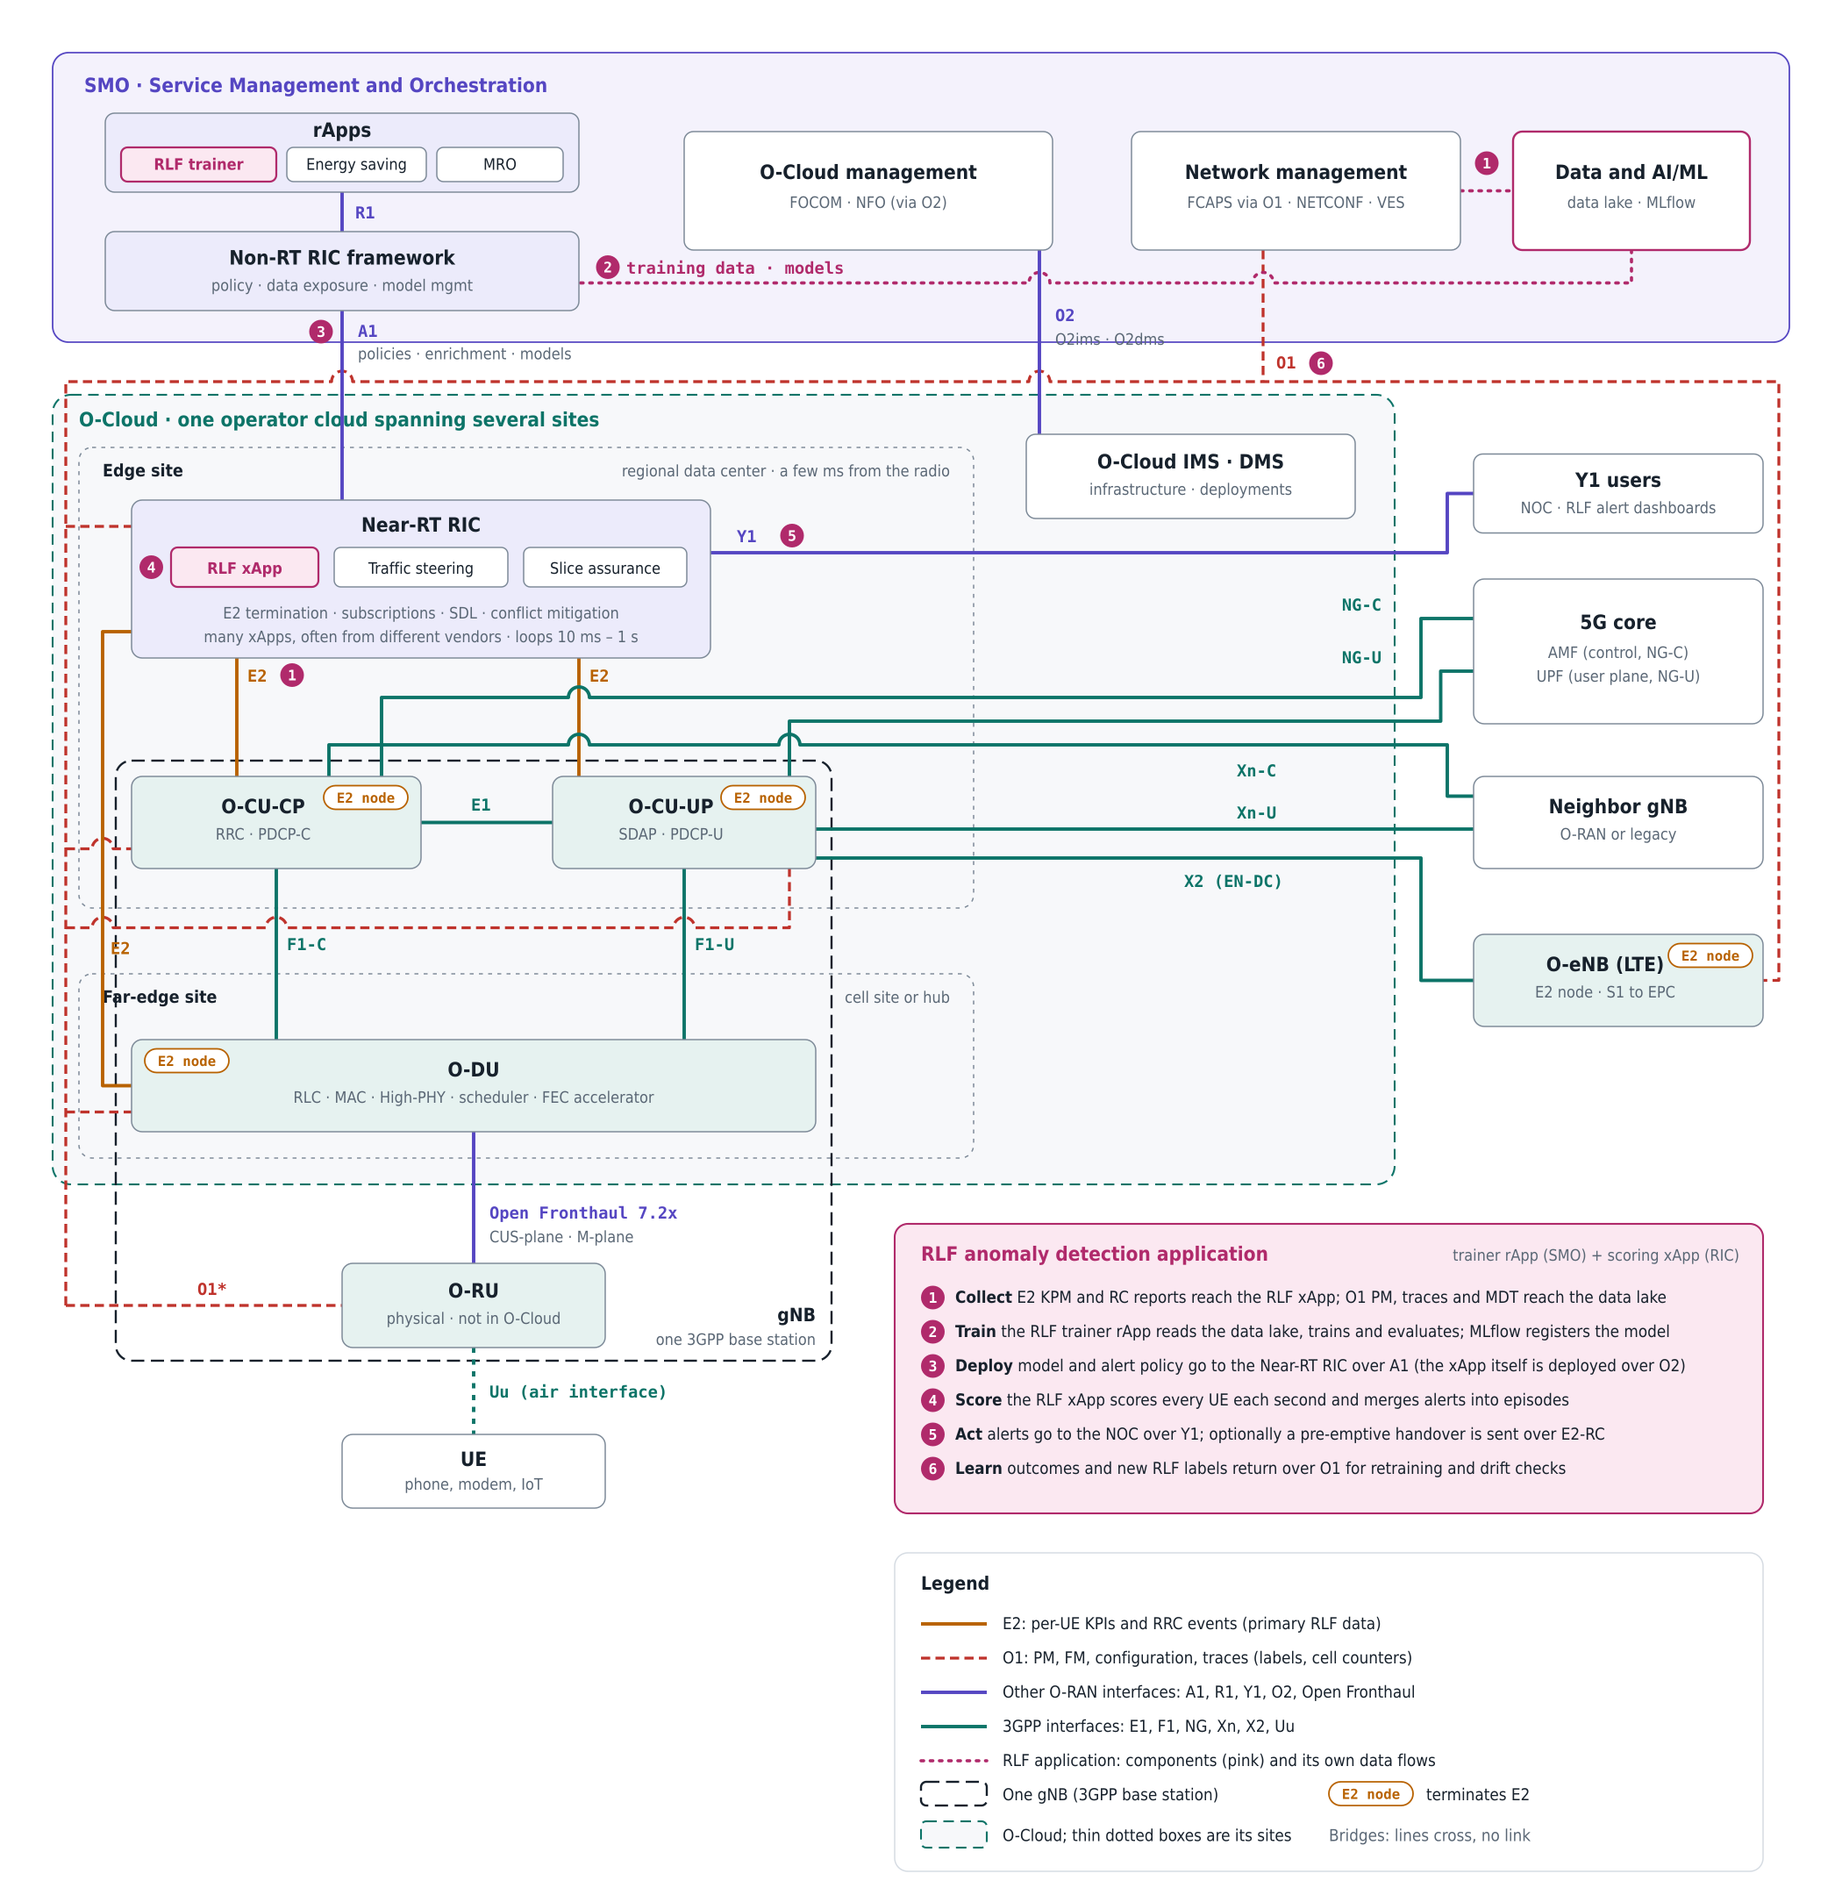
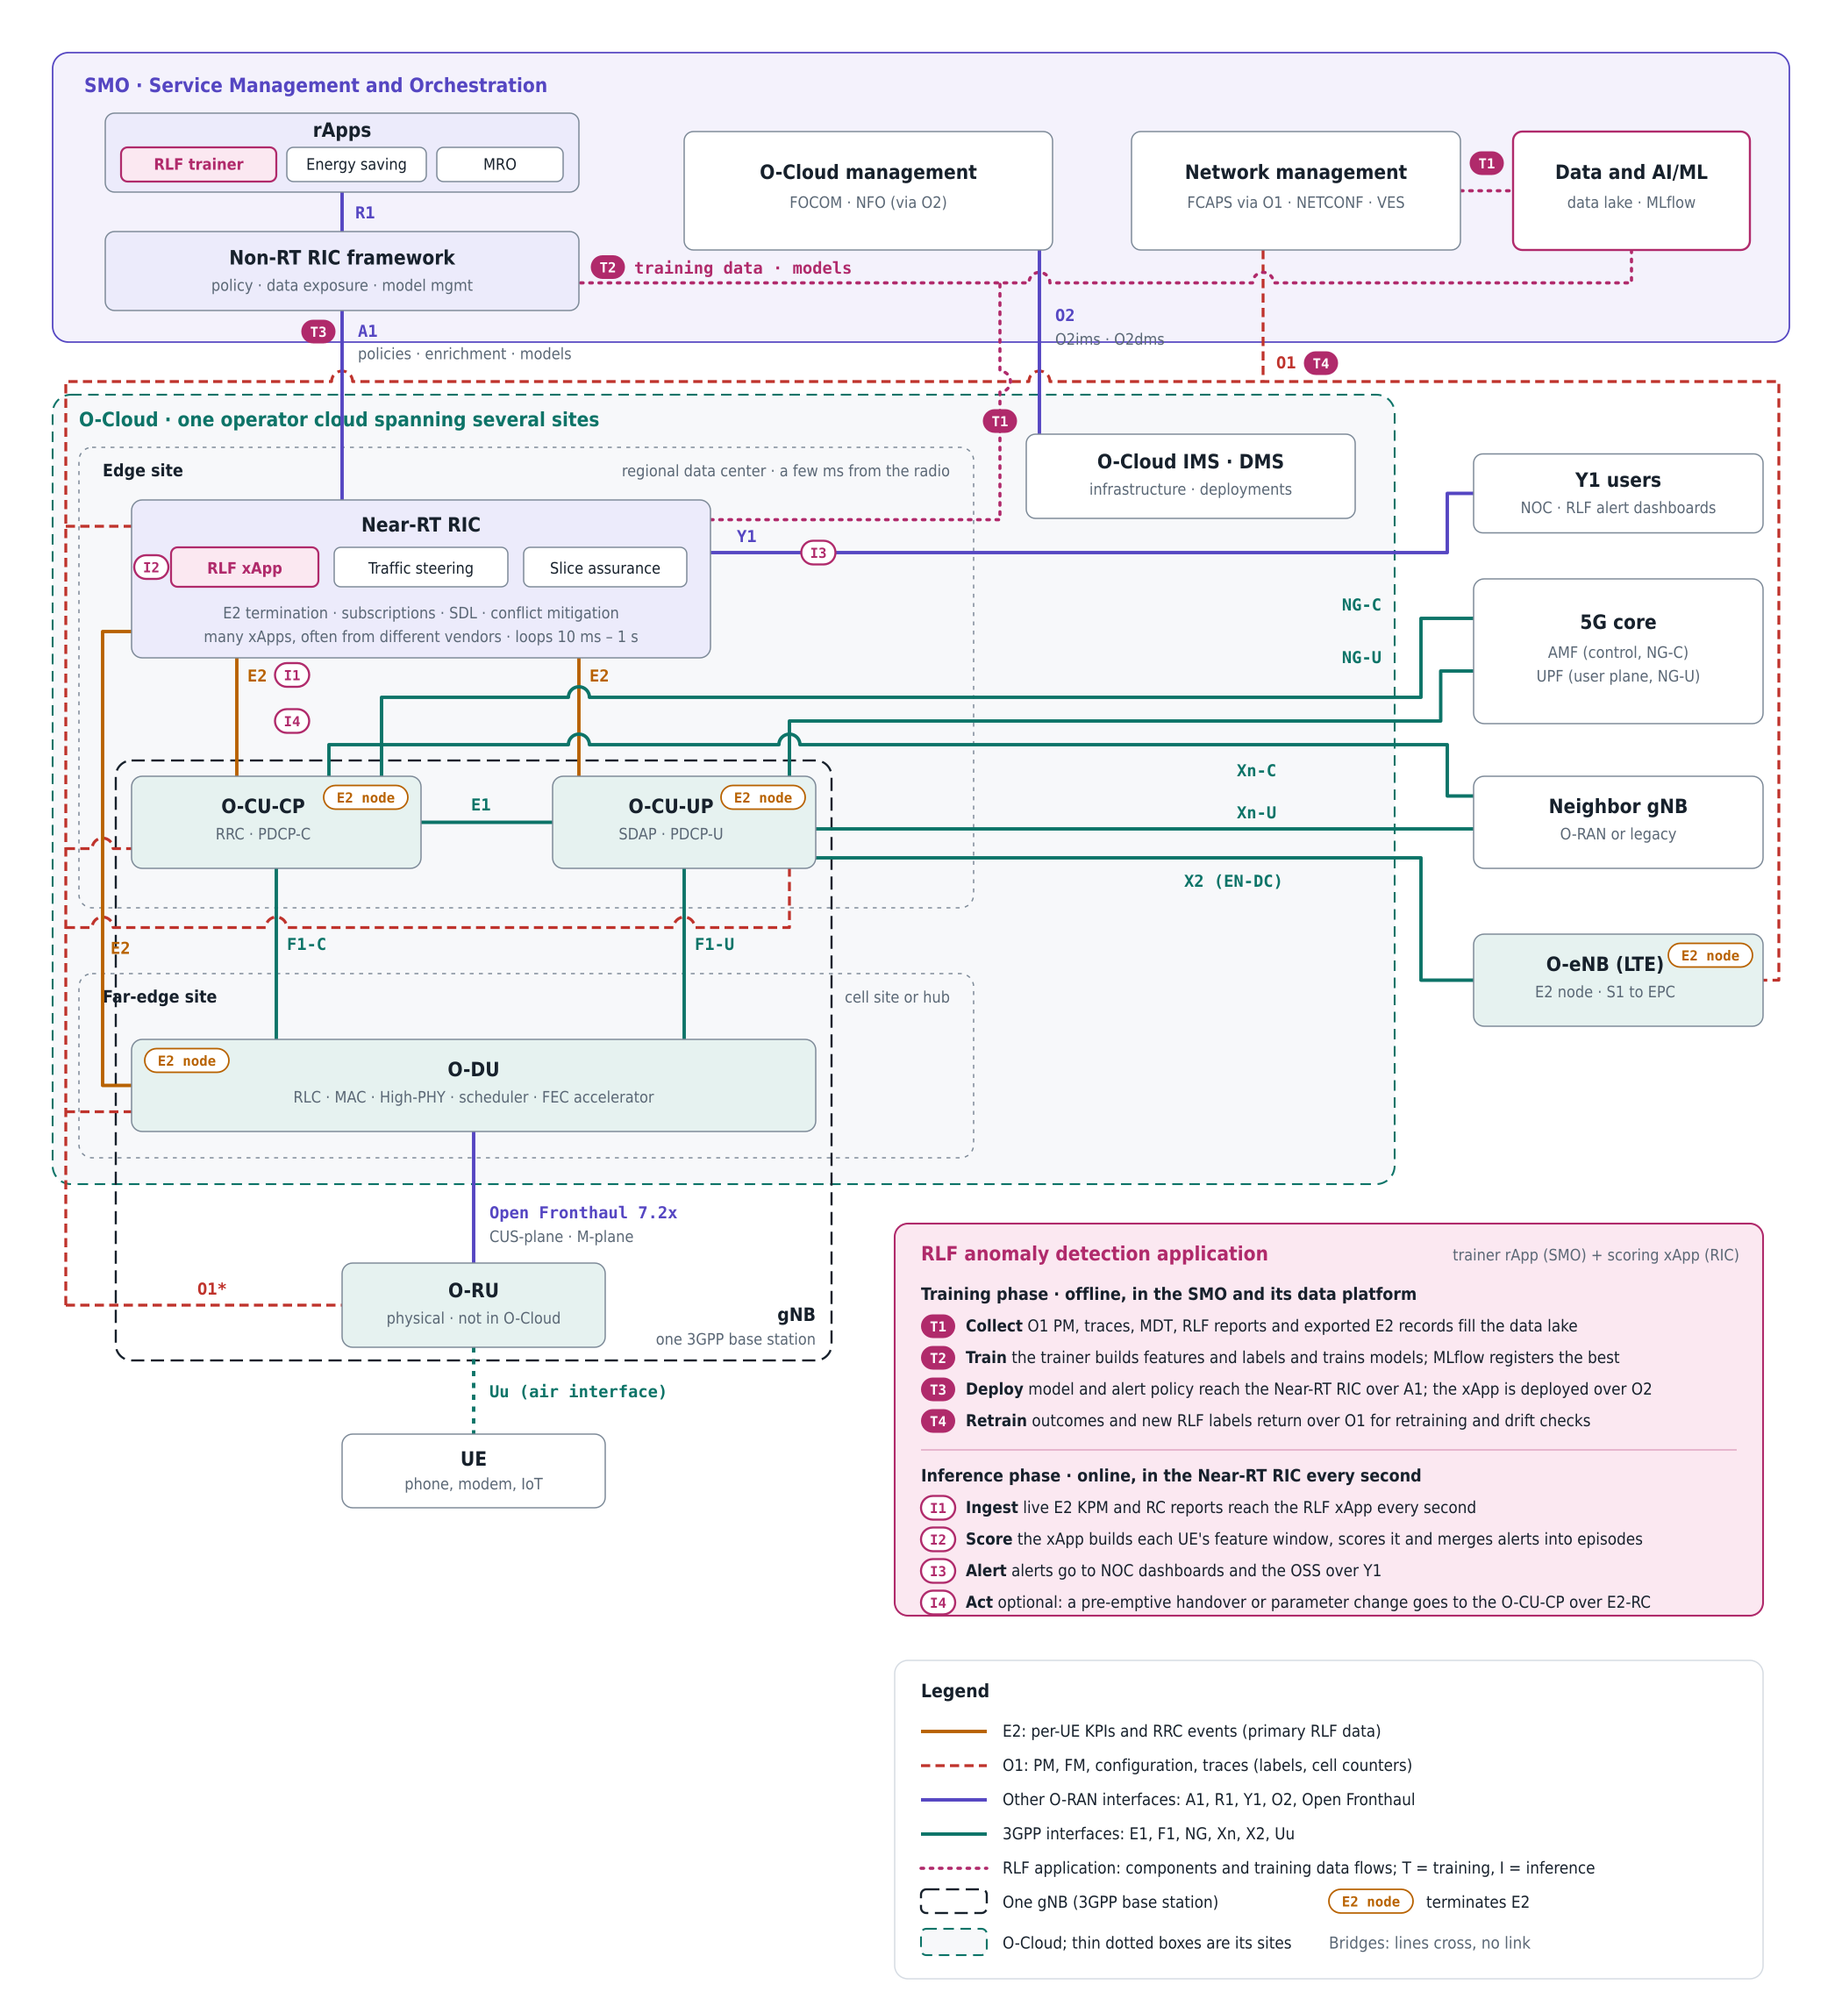
docs: separate RLF training and inference steps in the diagram
Split the application's steps into a training phase (T1 to T4, including
the collection of training data and a new flow exporting E2 records to the
data lake) and an inference phase (I1 to I4), in the diagram and in the
README tables.

Claude-Session: https://claude.ai/code/session_018LygYm73Mrxa2JvYqFDpGM

diff --git a/README.md b/README.md
@@ -133,7 +133,7 @@ Both are third-party microservices that hold optimization logic on top of a RIC 
 
 #### Where the RLF application sits
 
-The RLF anomaly detection application is not one box but two cooperating components, one per RIC, plus the SMO's data and ML platform. They are pink in the diagram, and the numbers below match the numbered markers.
+The RLF anomaly detection application is not one box but two cooperating components, one per RIC, plus the SMO's data and ML platform. They are pink in the diagram.
 
 | Component | Location | Job |
 | --- | --- | --- |
@@ -141,16 +141,29 @@ The RLF anomaly detection application is not one box but two cooperating compone
 | **Data and AI/ML platform** | SMO | Data lake for O1 data, plus MLflow tracking and the model registry |
 | **RLF xApp** | Near-RT RIC, edge site | Receives E2 data, runs the registered model, raises alerts and, optionally, mitigation |
 
+The application works in two phases, which the diagram separates: filled markers **T1 to T4** for the training phase (including the collection of training data) and outlined markers **I1 to I4** for the inference phase.
+
+**Training phase**: offline, in the SMO and its data platform, run periodically or when quality drops.
+
 | Step | What happens | Interfaces |
 | --- | --- | --- |
-| 1. Collect | E2SM-KPM and E2SM-RC reports reach the RLF xApp; O1 PM, traces and MDT flow through network management into the data lake | E2, O1 |
-| 2. Train | The trainer rApp reads training data from the data lake, trains and compares models, and registers the chosen one in MLflow | R1 (data management and exposure), inside the SMO |
-| 3. Deploy | The model and its alert policy (threshold, alert budget, action limits) go to the Near-RT RIC; the xApp workload itself is deployed on the O-Cloud | A1 for model and policy, O2 for the xApp |
-| 4. Score | The xApp scores every UE each second from its feature window and merges alerts within one horizon into episodes | Inside the Near-RT RIC |
-| 5. Act | Alerts go to NOC dashboards and the OSS; in the closed-loop phase, a pre-emptive handover or parameter change is sent to the O-CU-CP | Y1 for alerts, E2-RC for actions |
-| 6. Learn | Outcomes (did an RLF follow?) and new labels return to the data lake for retraining and drift monitoring | O1, E2 |
+| T1. Collect training data | O1 PM counters, traces, MDT and UE RLF reports flow through network management into the data lake. E2 records (KPM and RC reports) are exported from the Near-RT RIC into the same lake, because the per-UE features come from E2 | O1; E2 records exported from the RIC (dotted pink flow) |
+| T2. Train and register | The trainer rApp reads the data lake, builds features and labels, trains and compares models, and registers the chosen one in MLflow | R1 (data management and exposure), inside the SMO |
+| T3. Deploy | The registered model and its alert policy (threshold, alert budget, action limits) go to the Near-RT RIC; the xApp workload itself is deployed on the O-Cloud | A1 for model and policy, O2 for the xApp |
+| T4. Retrain | Outcomes of the alerts (did an RLF follow?) and new RLF labels return to the data lake, for retraining and drift monitoring | O1 |
 
-During the experiment only steps 1 and 2 exist, on synthetic data. Steps 3 to 6 are the path described in [From experiment to a service assurance application](#from-experiment-to-a-service-assurance-application) and [Evolving into an automated closed loop with the SMO](#evolving-into-an-automated-closed-loop-with-the-smo).
+**Inference phase**: online, in the Near-RT RIC, every second.
+
+| Step | What happens | Interfaces |
+| --- | --- | --- |
+| I1. Ingest live data | Live E2SM-KPM and E2SM-RC reports reach the RLF xApp | E2 |
+| I2. Score | The xApp builds each UE's feature window with the same feature code and version as training, scores it, and merges alerts within one horizon into episodes | Inside the Near-RT RIC |
+| I3. Alert | Alerts go to NOC dashboards and the OSS | Y1 |
+| I4. Act (optional) | In the closed-loop phase, a pre-emptive handover or parameter change goes to the O-CU-CP | E2-RC |
+
+The same E2 data serves both phases: live in I1, and as history in T1. This is why the feature code (`RLF_features.py`, `FEATURE_VERSION`) must be shared between the trainer and the xApp.
+
+During the experiment only steps T1 and T2 exist, on synthetic data. The other steps are the path described in [From experiment to a service assurance application](#from-experiment-to-a-service-assurance-application) and [Evolving into an automated closed loop with the SMO](#evolving-into-an-automated-closed-loop-with-the-smo).
 
 ### Interfaces
 
